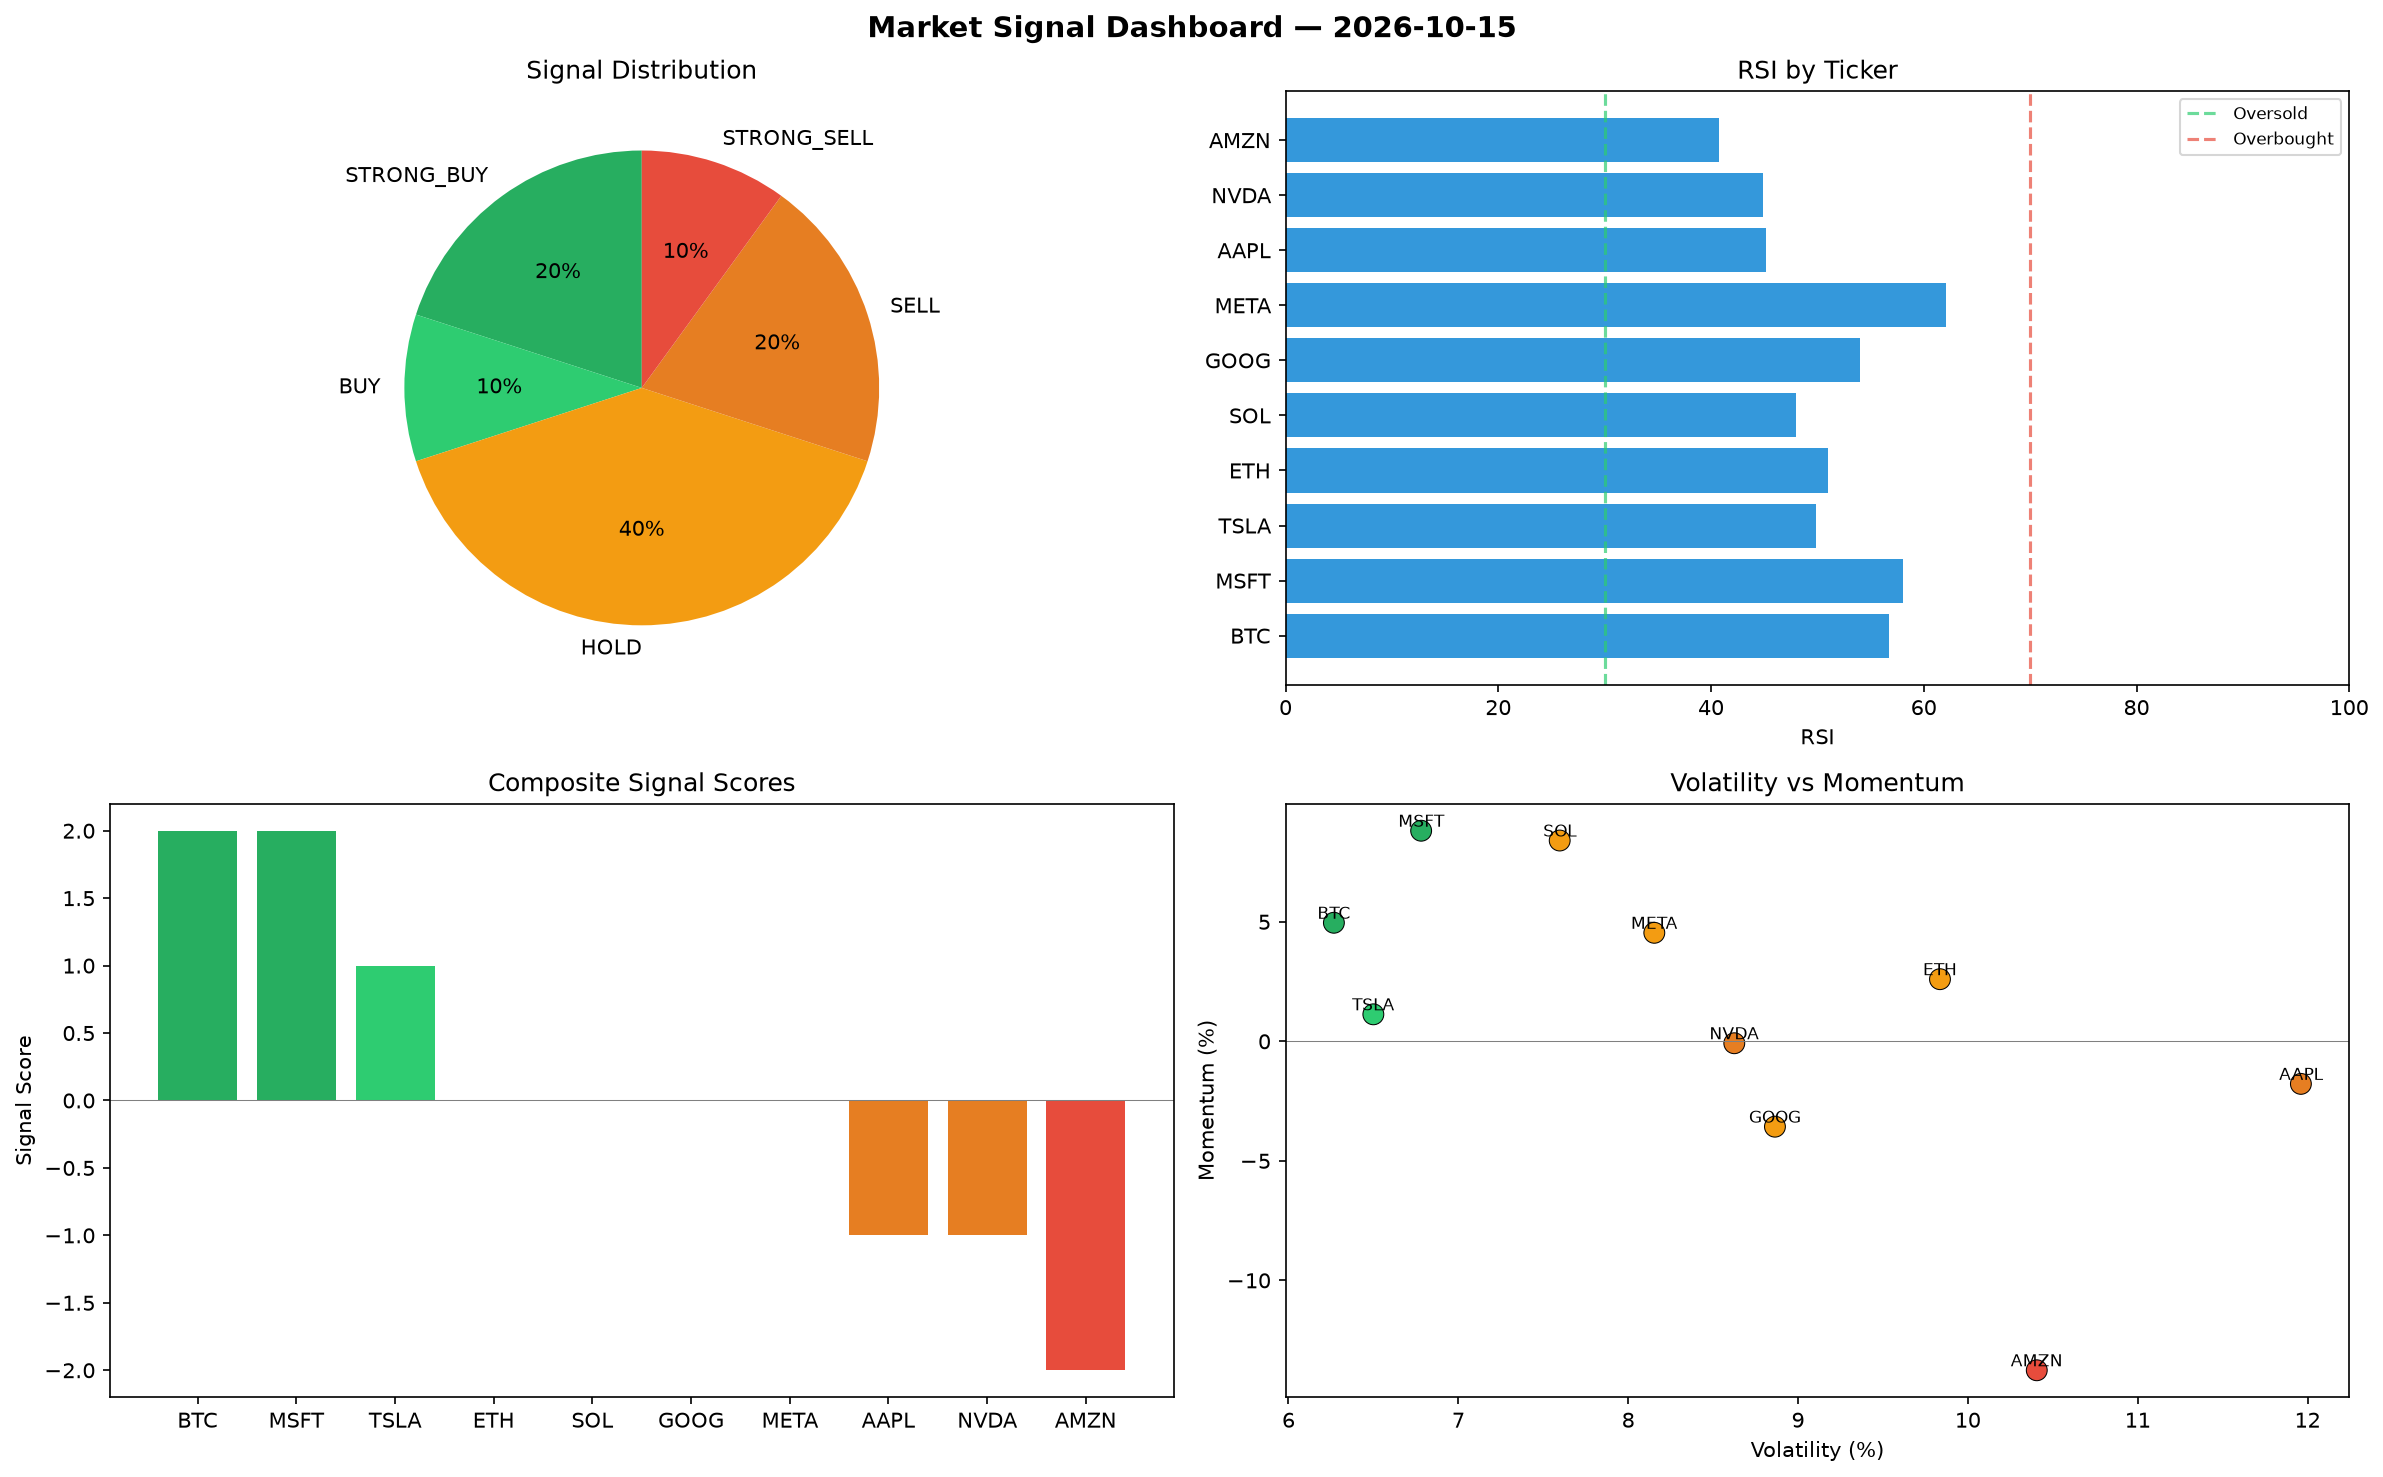
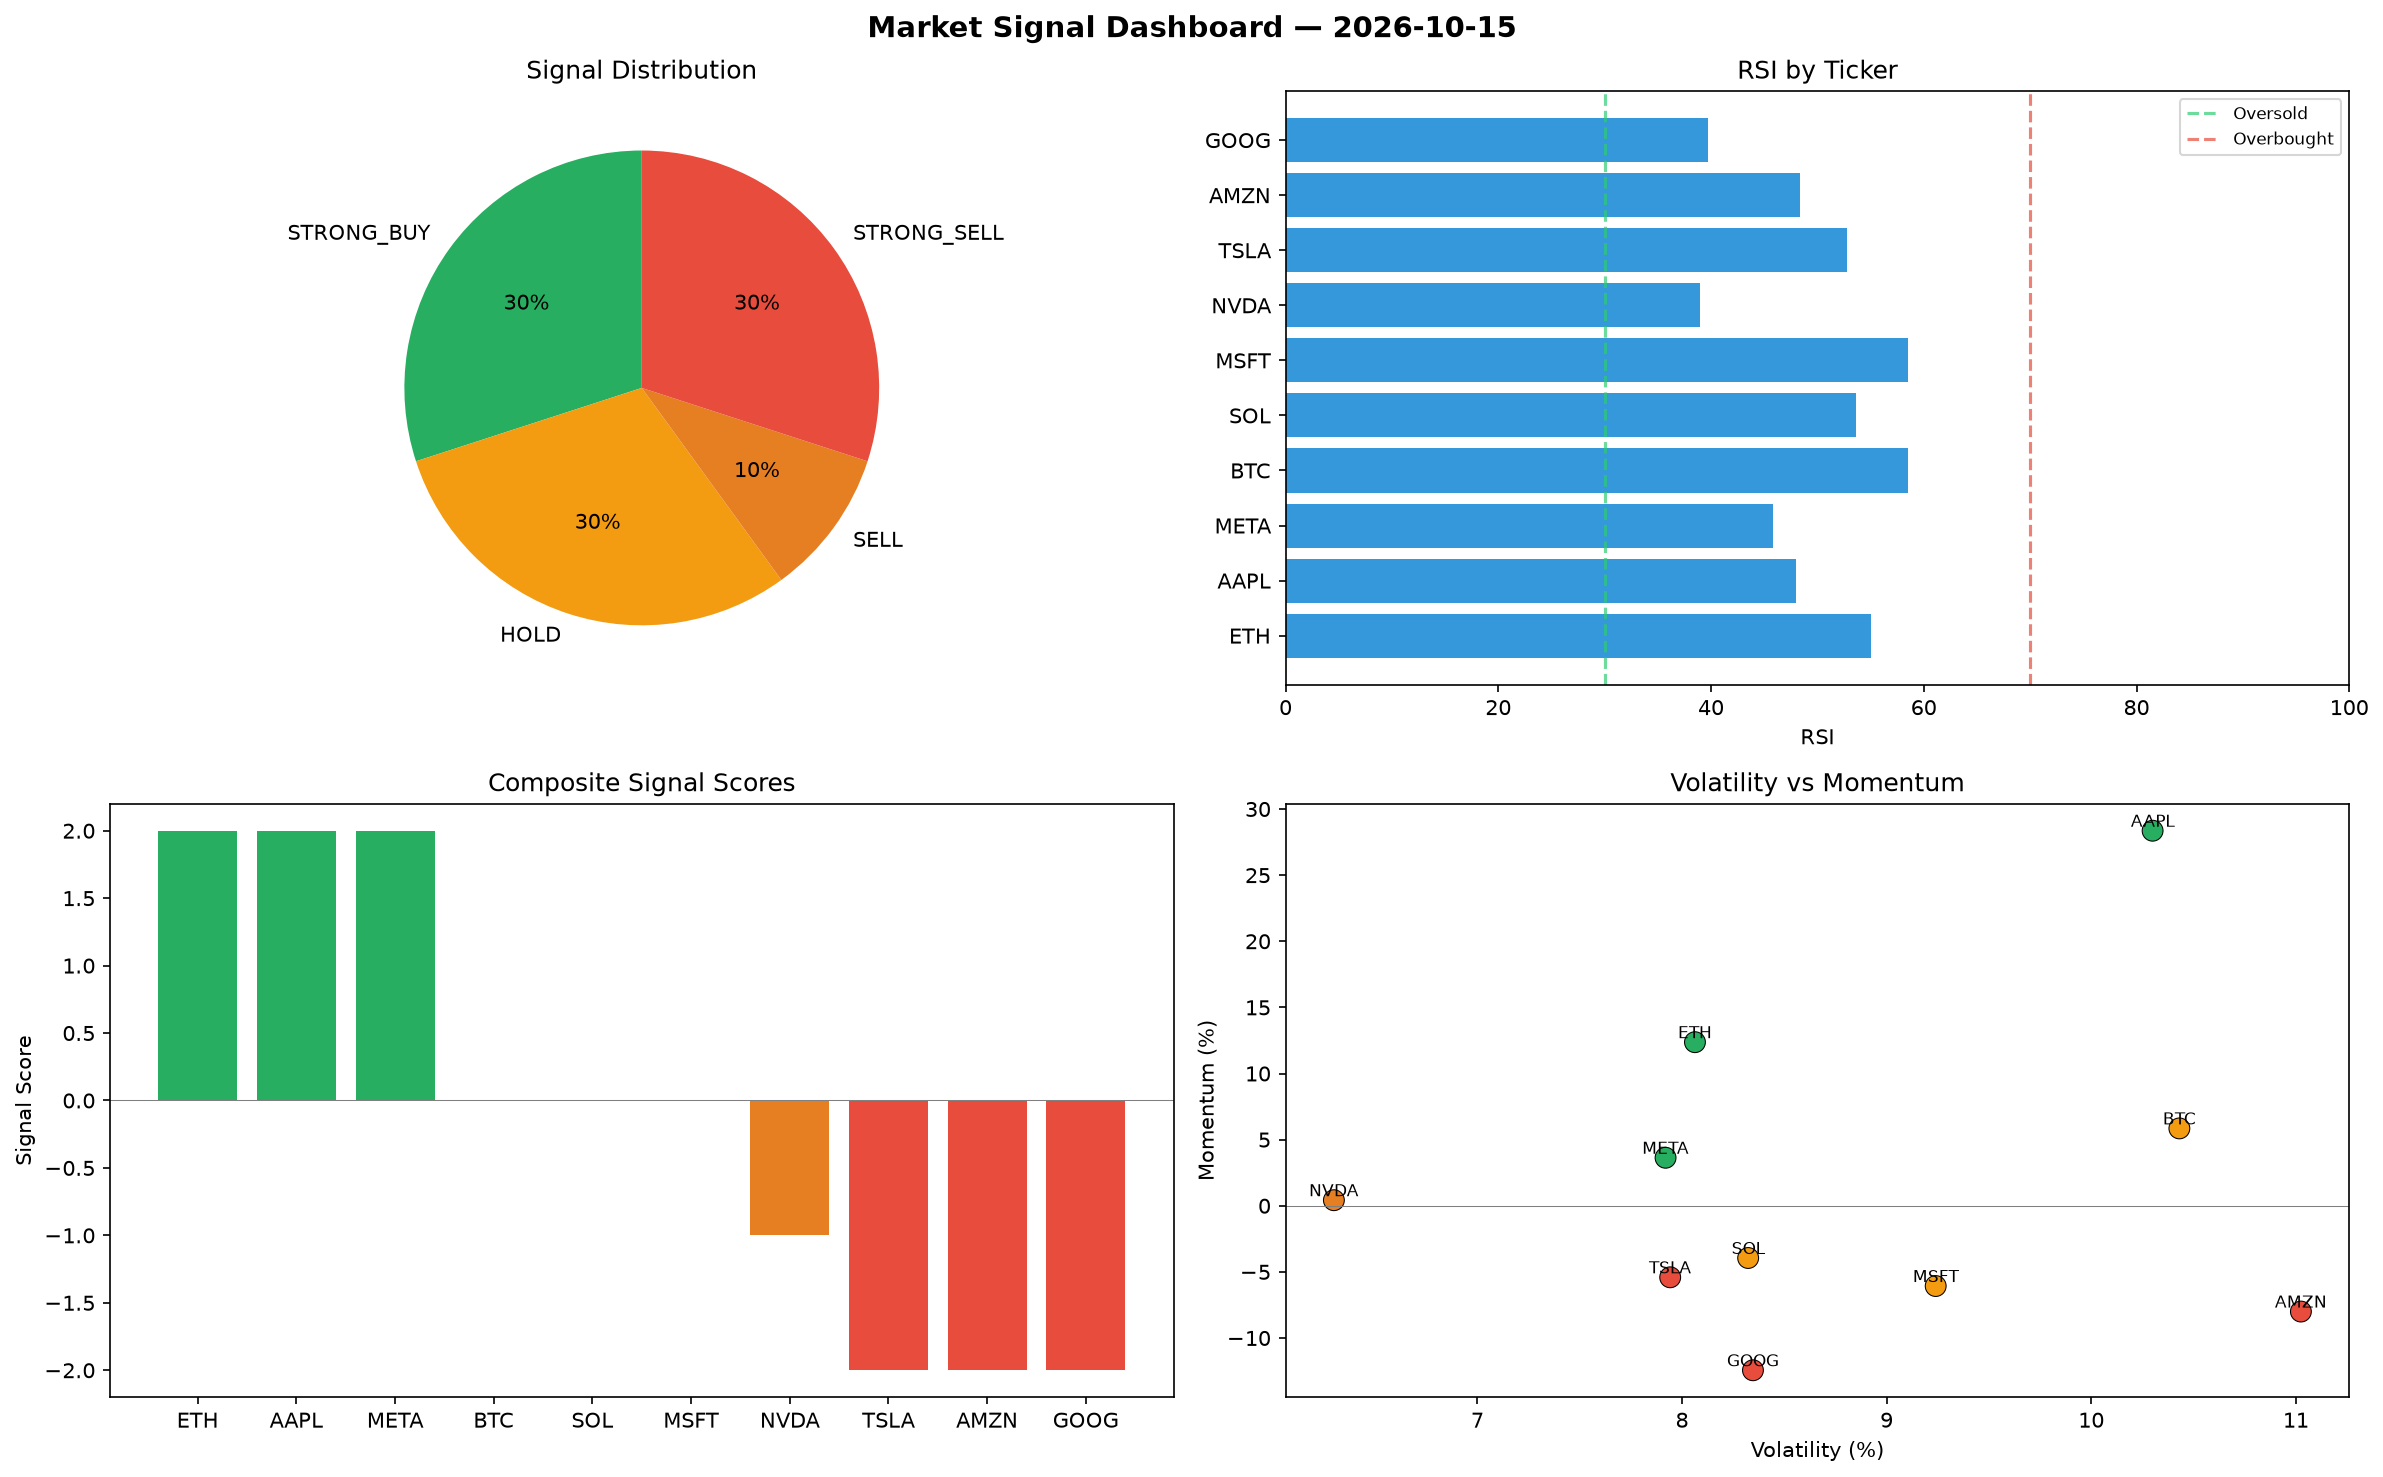
automated-bots: market signals 2026-10-15T23:07

diff --git a/logs/2026-10-15.md b/logs/2026-10-15.md
@@ -1,6 +1,6 @@
 # Market Signal Report — 2026-10-15
 
-**Run ID:** `b952ac1df2` | **Buy:** 3 | **Sell:** 3 | **Hold:** 4
+**Run ID:** `bae7753798` | **Buy:** 3 | **Sell:** 4 | **Hold:** 3
 
 ![Dashboard](2026-10-15_dashboard.png)
 
@@ -8,28 +8,28 @@
 
 | Ticker | Price | Signal | Score | RSI | Momentum | Confidence |
 |--------|-------|--------|-------|-----|----------|------------|
-| BTC | $4393.02 | **STRONG_BUY** | 2 | 56.72 | 0.0496 | 0.5 |
-| MSFT | $537.01 | **STRONG_BUY** | 2 | 58.06 | 0.0881 | 0.5 |
-| TSLA | $4406.6 | **BUY** | 1 | 49.9 | 0.0113 | 0.25 |
-| ETH | $3537.9 | **HOLD** | 0 | 50.97 | 0.026 | 0.0 |
-| SOL | $4580.26 | **HOLD** | 0 | 47.99 | 0.084 | 0.0 |
-| GOOG | $2324.59 | **HOLD** | 0 | 54.04 | -0.0357 | 0.0 |
-| META | $4849.46 | **HOLD** | 0 | 62.13 | 0.0454 | 0.0 |
-| AAPL | $1933.46 | **SELL** | -1 | 45.16 | -0.0178 | 0.25 |
-| NVDA | $3269.48 | **SELL** | -1 | 44.89 | -0.0008 | 0.25 |
-| AMZN | $1797.26 | **STRONG_SELL** | -2 | 40.73 | -0.1376 | 0.5 |
+| ETH | $3653.94 | **STRONG_BUY** | 2 | 55.07 | 0.1237 | 0.5 |
+| AAPL | $4426.4 | **STRONG_BUY** | 2 | 47.99 | 0.2836 | 0.5 |
+| META | $45.38 | **STRONG_BUY** | 2 | 45.83 | 0.0363 | 0.5 |
+| BTC | $5064.9 | **HOLD** | 0 | 58.51 | 0.0585 | 0.0 |
+| SOL | $2851.43 | **HOLD** | 0 | 53.6 | -0.0395 | 0.0 |
+| MSFT | $2512.91 | **HOLD** | 0 | 58.51 | -0.0607 | 0.0 |
+| NVDA | $3417.04 | **SELL** | -1 | 38.92 | 0.0042 | 0.25 |
+| TSLA | $2790.31 | **STRONG_SELL** | -2 | 52.81 | -0.0541 | 0.5 |
+| AMZN | $2148.61 | **STRONG_SELL** | -2 | 48.39 | -0.08 | 0.5 |
+| GOOG | $493.53 | **STRONG_SELL** | -2 | 39.71 | -0.1244 | 0.5 |
 
 ## Delta vs Yesterday
 
 | Ticker | Today | Yesterday | Price Change | Signal Changed |
 |--------|-------|-----------|-------------|----------------|
-| BTC | STRONG_BUY | HOLD | 📈 166.51% | ⚠ YES |
-| MSFT | STRONG_BUY | STRONG_SELL | 📉 -82.64% | ⚠ YES |
-| TSLA | BUY | STRONG_SELL | 📈 78.67% | ⚠ YES |
-| ETH | HOLD | SELL | 📈 4.63% | ⚠ YES |
-| SOL | HOLD | STRONG_SELL | 📉 -0.17% | ⚠ YES |
-| GOOG | HOLD | STRONG_SELL | 📉 -46.22% | ⚠ YES |
-| META | HOLD | HOLD | 📈 176.24% | — |
-| AAPL | SELL | STRONG_BUY | 📉 -51.09% | ⚠ YES |
-| NVDA | SELL | BUY | 📈 135.59% | ⚠ YES |
-| AMZN | STRONG_SELL | HOLD | 📉 -54.05% | ⚠ YES |
+| ETH | STRONG_BUY | SELL | 📈 8.06% | ⚠ YES |
+| AAPL | STRONG_BUY | STRONG_BUY | 📈 11.98% | — |
+| META | STRONG_BUY | HOLD | 📉 -97.42% | ⚠ YES |
+| BTC | HOLD | HOLD | 📈 207.27% | — |
+| SOL | HOLD | STRONG_SELL | 📉 -37.85% | ⚠ YES |
+| MSFT | HOLD | STRONG_SELL | 📉 -18.75% | ⚠ YES |
+| NVDA | SELL | BUY | 📈 146.22% | ⚠ YES |
+| TSLA | STRONG_SELL | STRONG_SELL | 📈 13.14% | — |
+| AMZN | STRONG_SELL | HOLD | 📉 -45.07% | ⚠ YES |
+| GOOG | STRONG_SELL | STRONG_SELL | 📉 -88.58% | — |
